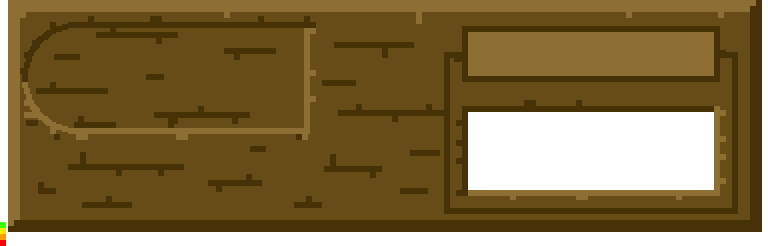
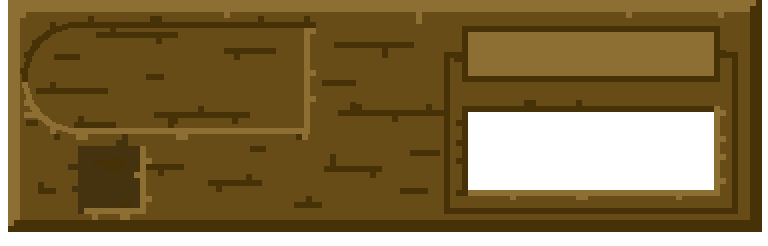
building up images for skill tree/rotating

Changed region(s): [[0.0938, 0.5407, 0.2188, 0.9106], [0.0, 0.9106, 0.0312, 1.0], [0.4375, 0.3984, 0.4688, 0.4553]]

diff --git a/src/states/SkillTree.js b/src/states/SkillTree.js
@@ -7,6 +7,8 @@ import strSlice from '../data/skillTree';
 export default class extends Phaser.State {
     constructor(){
         super();
+        this.startDrag = this.startDrag.bind(this);
+        this.stopDrag = this.stopDrag.bind(this);
     }
 
     init () {
@@ -32,26 +34,64 @@ export default class extends Phaser.State {
         this.avatar = new Avatar(this.game, this, avatarSettings, hpSettings, true, true); //Need to call avatar.update()
 
         this.addStrengthButtons();
+        this.addRotationButtons();
+    }
+
+    addRotationButtons(){
+        let leftButton = new Phaser.Button(this.game, 100, this.game.world.centerY, 'rot_left', this.rotateLeft, this);
+        let rightButton = new Phaser.Button(this.game, this.game.world.width - 100, this.game.world.centerY, 'rot_right', this.rotateRight, this);
+
+        leftButton.anchor.setTo(0.5);
+        this.add.existing(leftButton);
+        rightButton.anchor.setTo(0.5);
+        this.add.existing(rightButton);
+    }
+
+    rotateLeft(){
+        console.log('rotate left');
+    }
+    rotateRight(){
+        console.log('rotate right');
     }
 
     addStrengthButtons(){
         console.log('srength skills:', strSlice);
 
         strSlice.forEach((skillItem) => {
-            let btnWidth = skillItem.type === 'attr' ? 35 : 50;
-            let bmd = this.game.add.bitmapData(btnWidth, btnWidth);
-            bmd.ctx.beginPath();
-            bmd.circle(btnWidth/2, btnWidth/2, btnWidth/2);
-            bmd.ctx.fillStyle = '#000000';
-
-            bmd.ctx.fill();
-            let skillBtn = this.game.add.sprite(skillItem.x, skillItem.y*2, bmd);
-            skillBtn.inputEnabled = true;
-
-            skillBtn.events.onInputDown.add((sprite) => {
-                console.log('skillBtn pressed:', sprite, skillItem);
-            }, this);
+            let btnSprite = skillItem.type === 'attr' ? 'attr_button' : 'skill_button';
+            let debug = true;
+            let skillBtn;
+            if(debug){
+                //sprite for dragging/debugging
+                skillBtn = this.game.add.sprite(skillItem.x, skillItem.y*2, btnSprite);
+                skillBtn.inputEnabled = true;
+                skillBtn.input.enableDrag();
+                skillBtn.events.onDragStop.add((sprite) => {
+                    this.stopDrag(sprite);
+                }, this);
+                skillBtn.events.onDragStart.add(function(sprite){
+                    this.startDrag(sprite);
+                }, this);
+            } else {
+                //button for real
+                skillBtn = new Phaser.Button(this.game, skillItem.x, skillItem.y*2, btnSprite, this.showSkillDetail.bind(this, skillItem), this);
+            }
+            if(this.game.player.skills.length === 0 && !skillItem.introSkill){
+                skillBtn.tint = 0.1 * 0x010101;
+            }
+            skillBtn.anchor.setTo(0.5);
+            this.add.existing(skillBtn);
         });
+    }
+    showSkillDetail(skill){
+        console.log('clicked skill:', skill);
+    }
+
+    startDrag(sprite){
+        this.currentSprint = sprite;
+    }
+    stopDrag(sprite){
+        console.log('stopped dragging this sprite to:', sprite.position);
     }
 
     update(){

diff --git a/src/components/MainNavigation.js b/src/components/MainNavigation.js
@@ -61,22 +61,12 @@ export default class MainNavigation{
         this.game.add.existing(this.worldBtn);
 
         //Potions
-        let bgbmd = this.game.add.bitmapData(82, 82);
-        bgbmd.ctx.beginPath();
-        bgbmd.ctx.rect(0, 0, 82, 82);
-        bgbmd.ctx.fillStyle = '#000000';
-
-        bgbmd.ctx.fill();
-        let potionBg = this.game.add.sprite(75, this.game.world.height-67, bgbmd);
-        potionBg.anchor.setTo(0.5);
-        potionBg.alpha = 0.6;
-
-        this.potionButton = new Phaser.Button(this.game, 75, this.game.world.height-67, 'misc_items', this.usePotion, this, 0, 0, 0);
-        this.potionButton.scale.setTo(0.85);
+        this.potionButton = new Phaser.Button(this.game, 110, this.game.world.height-72, 'misc_items', this.usePotion, this, 0, 0, 0);
+        this.potionButton.scale.setTo(0.65);
         this.potionButton.anchor.setTo(0.5);
         this.gameState.add.existing(this.potionButton);
         let numPotions = this.game.player.potions;
-        let potionTextX = 75;
+        let potionTextX = 110;
         this.potionText = this.gameState.add.text(potionTextX, this.game.world.height-57, `${numPotions}`, Pixel16White);
 
     }

diff --git a/src/data/skillTree.js b/src/data/skillTree.js
@@ -130,25 +130,27 @@ let sliceSchema = [
 ];
 
 let strSkills = [
-    {
-        name: 'berserker',
-        title: 'Berserker',
-        desc: 'Performs a flurry of quick attacks at the beginning of a raid.'
-    },
+
     {
         name: 'two-hand1hand',
         title: 'Two Handed Weapons with One Hand',
         desc: 'Able to equip two-handed weapons in a single hand.'
     },
     {
-        name: 'no-weight',
-        title: 'No Over Encumberment',
-        desc: 'The player cannot become over encumbered.'
-    },
-    {
         name: 'crit-dmg-up',
         title: 'Increase Critical Hit Damage',
         desc: 'When landing a critical hit, it\'ll do extra damage.'
+    },
+    {
+        name: 'berserker',
+        title: 'Berserker',
+        desc: 'Performs a flurry of quick attacks at the beginning of a raid.',
+        introSkill: true
+    },
+    {
+        name: 'no-weight',
+        title: 'No Over Encumberment',
+        desc: 'The player cannot become over encumbered.'
     }
 ];
 

diff --git a/src/states/Loading.js b/src/states/Loading.js
@@ -17,6 +17,12 @@ export default class extends Phaser.State {
         this.game.load.image('part_med_yellow', './assets/images/particles/med_yellow.png');
         this.game.load.image('part_lg_yellow', './assets/images/particles/lg_yellow.png');
 
+        //skill tree UI
+        this.game.load.image('rot_left', './assets/images/skills/turn-left.png');
+        this.game.load.image('rot_right', './assets/images/skills/turn-right.png');
+        this.game.load.image('attr_button', './assets/images/skills/attr-button.png');
+        this.game.load.image('skill_button', './assets/images/skills/skill-button.png');
+
         //Button Backgrounds
         this.game.load.image('blueButton', './assets/images/blue_button00.png');
         this.game.load.image('greenButton', './assets/images/green_button00.png');
